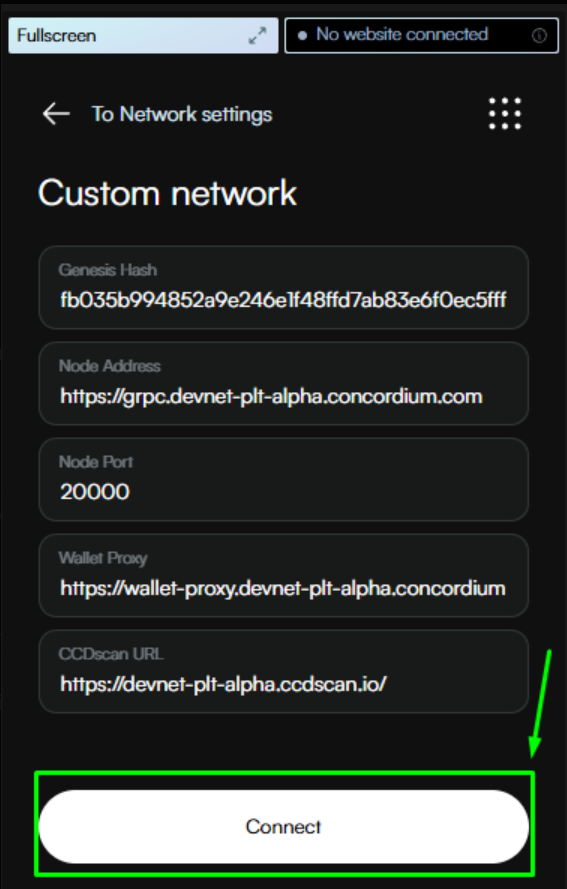
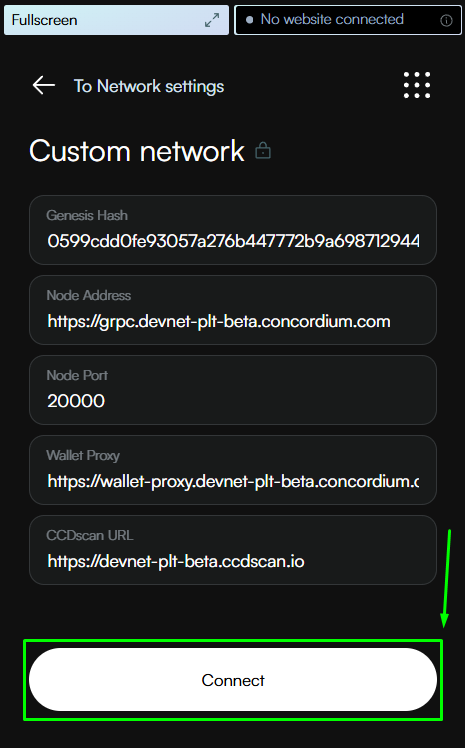
Updated: PLT issuance form, browser wallet link and custom network details, concordium-client links

diff --git a/source/mainnet/community/plt/examples/concordium-client.rst b/source/mainnet/community/plt/examples/concordium-client.rst
@@ -8,14 +8,14 @@ This guide explains how to use concordium-client to perform PLT operations from 
 Installation and setup
 ----------------------
 
-Download and install concordium-client v9.1.1-alpha:
+Download and install concordium-client v9.1.2-alpha:
 
-**Downloads (v9.1.1):**
+**Downloads (v9.1.2):**
 
-- `Linux <https://distribution.concordium.software/devnet/linux/concordium-client_9.1.1-0-alpha>`_
-- `Windows (signed) <https://distribution.concordium.software/devnet/windows/signed/concordium-client_9.1.1-0-alpha.zip>`_
-- `macOS - arm (signed) <https://distribution.concordium.software/devnet/macos/signed/concordium-client-arm-9.1.1-0-alpha.pkg>`_
-- `macOS - intel (signed) <https://distribution.concordium.software/devnet/macos/signed/concordium-client-intel-9.1.1-0-alpha.pkg>`_
+- `Linux <https://distribution.concordium.software/devnet/linux/concordium-client-9.1.2-0-alpha>`_
+- `Windows (signed) <https://distribution.concordium.software/devnet/windows/signed/concordium-client_9.1.2-0-alpha.zip>`_
+- `macOS - arm (signed) <https://distribution.concordium.software/devnet/macos/signed/concordium-client-arm-9.1.2-0-alpha.pkg>`_
+- `macOS - intel (signed) <https://distribution.concordium.software/devnet/macos/signed/concordium-client-intel-9.1.2-0-alpha.pkg>`_
 
 .. note::
    With new DevNet releases and features, new concordium-client versions may get released. Follow the communication channels for the most recent versions.
@@ -32,7 +32,7 @@ The following PLT operations are available via CLI:
 
 **Token Transfer Operations:**
 
-- ``transaction plt send`` - Transfer PLT tokens (renamed from ``transaction transfer-plt``)
+- ``transaction plt send`` - Transfer PLT tokens
 
 **Token Management Operations:**
 
@@ -58,7 +58,7 @@ Command examples
 
 .. code-block:: bash
 
-  concordium-client raw GetTokenList --grpc-ip grpc.devnet-plt-alpha.concordium.com --grpc-port 20000 --secure
+  concordium-client raw GetTokenList --grpc-ip grpc.devnet-plt-beta.concordium.com --grpc-port 20000 --secure
 
 
 .. _concordium-client-transfer-tokens:
@@ -67,44 +67,44 @@ Command examples
 
 .. code-block:: bash
 
-   concordium-client transaction plt send --sender YOUR_ACCOUNT --receiver RECEIVER_ADDRESS --amount 1 --tokenId TOKEN_SYMBOL --memo "test" --grpc-ip grpc.devnet-plt-alpha.concordium.com --grpc-port 20000 --secure
+   concordium-client transaction plt send --sender YOUR_ACCOUNT --receiver RECEIVER_ADDRESS --amount 1 --tokenId TOKEN_SYMBOL --memo "test" --grpc-ip grpc.devnet-plt-beta.concordium.com --grpc-port 20000 --secure
 
 
 **Mint PLT Tokens:**
 
 .. code-block:: bash
 
-   concordium-client transaction plt mint --sender GOVERNANCE_ACCOUNT --amount TOKEN-AMOUNT --tokenId TOKEN_SYMBOL --grpc-ip grpc.devnet-plt-alpha.concordium.com --grpc-port 20000 --secure
+   concordium-client transaction plt mint --sender GOVERNANCE_ACCOUNT --amount TOKEN-AMOUNT --tokenId TOKEN_SYMBOL --grpc-ip grpc.devnet-plt-beta.concordium.com --grpc-port 20000 --secure
 
 **Burn PLT Tokens:**
 
 .. code-block:: bash
 
-   concordium-client transaction plt burn --sender GOVERNANCE_ACCOUNT --amount TOKEN-AMOUNT --tokenId TOKEN_SYMBOL --grpc-ip grpc.devnet-plt-alpha.concordium.com --grpc-port 20000 --secure
+   concordium-client transaction plt burn --sender GOVERNANCE_ACCOUNT --amount TOKEN-AMOUNT --tokenId TOKEN_SYMBOL --grpc-ip grpc.devnet-plt-beta.concordium.com --grpc-port 20000 --secure
 
 **Add an Account to the Allow List:**
 
 .. code-block:: bash
 
-   concordium-client transaction plt add-to-allow-list --sender GOVERNANCE_ACCOUNT --account ACCOUNT_ADDRESS --tokenId TOKEN_SYMBOL --grpc-ip grpc.devnet-plt-alpha.concordium.com --grpc-port 20000 --secure
+   concordium-client transaction plt add-to-allow-list --sender GOVERNANCE_ACCOUNT --account ACCOUNT_ADDRESS --tokenId TOKEN_SYMBOL --grpc-ip grpc.devnet-plt-beta.concordium.com --grpc-port 20000 --secure
 
 **Add an Account to the Deny List:**
 
 .. code-block:: bash
 
-   concordium-client transaction plt add-to-deny-list --sender GOVERNANCE_ACCOUNT --account ACCOUNT_ADDRESS --tokenId TOKEN_SYMBOL --grpc-ip grpc.devnet-plt-alpha.concordium.com --grpc-port 20000 --secure
+   concordium-client transaction plt add-to-deny-list --sender GOVERNANCE_ACCOUNT --account ACCOUNT_ADDRESS --tokenId TOKEN_SYMBOL --grpc-ip grpc.devnet-plt-beta.concordium.com --grpc-port 20000 --secure
 
 **Remove an Account from the Allow List:**
 
 .. code-block:: bash
 
-   concordium-client transaction plt remove-from-allow-list --sender GOVERNANCE_ACCOUNT --account ACCOUNT_ADDRESS --tokenId TOKEN_SYMBOL --grpc-ip grpc.devnet-plt-alpha.concordium.com --grpc-port 20000 --secure
+   concordium-client transaction plt remove-from-allow-list --sender GOVERNANCE_ACCOUNT --account ACCOUNT_ADDRESS --tokenId TOKEN_SYMBOL --grpc-ip grpc.devnet-plt-beta.concordium.com --grpc-port 20000 --secure
 
 **Remove an Account from the Deny List:**
 
 .. code-block:: bash
 
-   concordium-client transaction plt remove-from-deny-list --sender GOVERNANCE_ACCOUNT --account ACCOUNT_ADDRESS --tokenId TOKEN_SYMBOL --grpc-ip grpc.devnet-plt-alpha.concordium.com --grpc-port 20000 --secure
+   concordium-client transaction plt remove-from-deny-list --sender GOVERNANCE_ACCOUNT --account ACCOUNT_ADDRESS --tokenId TOKEN_SYMBOL --grpc-ip grpc.devnet-plt-beta.concordium.com --grpc-port 20000 --secure
 
 
 

diff --git a/source/mainnet/community/plt/setup-guide/request-plt.rst b/source/mainnet/community/plt/setup-guide/request-plt.rst
@@ -60,24 +60,26 @@ Follow these steps to request PLT issuance on DevNet:
 
    Create and host your metadata JSON file following the format above.
 
-2. **Access the PLT issuance request form**
+2. **Fill out the form below**
 
-   Go to the `PLT issuance request form <https://tally.so/r/w8WKGl>`_ to submit your request.
+.. raw:: html
 
-3. **Fill out the required information**
+    <iframe data-tally-src="https://tally.so/r/mK4ZdK" loading="lazy" width="100%" height="500" frameborder="0" marginheight="0" marginwidth="0" title="PLT issuance request form"></iframe>
+    <script>
+      var d = document, w = "https://tally.so/widgets/embed.js", v = function () {
+        "undefined" != typeof Tally && Tally.loadEmbeds();
+      };
+      if ("undefined" != typeof Tally) v();
+      else if (d.querySelector('script[src="' + w + '"]') == null) {
+        var s = d.createElement("script");
+        s.src = w;
+        s.onload = v;
+        s.type = "text/javascript";
+        d.body.appendChild(s);
+      }
+    </script>
 
-   * **Nominated Account**: The DevNet wallet address to receive your token. **Important:** This account will have exclusive authority to perform all token-governance operations (mint, burn, add/remove allow and deny lists)
-   * **Token Name**: Full name of your token (e.g., "My First PLT")
-   * **Token Symbol**: Short ticker (e.g., "PLT")
-   * **Initial supply**: Amount of tokens that will be issued and transferred to your account
-   * **Number of decimals**: Number of decimals in the token representation
-   * **Allowlist**: Only accounts on the allow list can hold the token
-   * **Denylist**: Accounts on the deny list cannot hold the token
-   * **Mintable**: Allows minting more tokens after issuance
-   * **Burnable**: Allows burning tokens after issuance
-   * **Your Discord username**: For communication about your request
-
-4. **Submit your request**
+3. **Submit your request**
 
    Click Submit to send your PLT issuance request with all the token parameters to the Concordium team.
 
@@ -111,8 +113,6 @@ Your PLT will be created with the following parameters:
      - Whether token supports a deny list
    * - Initial supply
      - Initial tokens minted to the token-governance account
-   * - Total Supply
-     - Maximum possible token supply
    * - Burnable
      - Whether tokens can be burnt
    * - Mintable

diff --git a/source/mainnet/community/plt/setup-guide/devnet-connection.rst b/source/mainnet/community/plt/setup-guide/devnet-connection.rst
@@ -31,11 +31,11 @@ Follow these steps to configure your wallet to connect to DevNet:
 
 3. Select *Custom Network* (this option will only be available if you already have a Testnet account) and fill in the following connection details:
 
[1 lines of base64/hex data omitted]
-   - Node Address: ``https://grpc.devnet-plt-alpha.concordium.com``
[1 lines of base64/hex data omitted]
+   - Node Address: ``https://grpc.devnet-plt-beta.concordium.com``
    - Node Port: ``20000``
-   - Wallet Proxy: ``https://wallet-proxy.devnet-plt-alpha.concordium.com``
-   - CCDScan URL: ``https://devnet-plt-alpha.ccdscan.io``
+   - Wallet Proxy: ``https://wallet-proxy.devnet-plt-beta.concordium.com``
+   - CCDScan URL: ``https://devnet-plt-beta.ccdscan.io``
 
    .. image:: ../setup-guide/Images/custom-network-connection-details.png
       :alt: Opening the wallet menu

diff --git a/source/mainnet/community/plt/setup-guide/browser-wallet.rst b/source/mainnet/community/plt/setup-guide/browser-wallet.rst
@@ -18,7 +18,7 @@ Follow these steps to install the custom DevNet Browser Wallet:
 
 1. **Download the DevNet Browser Wallet**
 
-   Download `Browser Wallet v2.2.7 <https://distribution.concordium.software/devnet/concordium-browser-wallet-2.2.7.zip>`_, the custom version that allows connection to DevNet.
+   Download `Browser Wallet v2.2.11 <https://distribution.concordium.software/devnet/concordium-browser-wallet-2.2.11.zip>`_, the custom version that allows connection to DevNet.
 
    .. note::
       This feature will be incorporated into the standard Browser Wallet in future versions, but currently requires this special edition.

diff --git a/source/mainnet/community/plt/operations/index.rst b/source/mainnet/community/plt/operations/index.rst
@@ -19,7 +19,7 @@ You can interact with PLTs using multiple development approaches:
 
   `Rust SDK released versions <https://crates.io/crates/concordium-rust-sdk>`_
 
-- **Concordium Client CLI Tool** (v9.1.1-alpha) - Command-line interface for direct operations
+- **Concordium Client CLI Tool** (v9.1.2-alpha) - Command-line interface for direct operations
 
   `CLI released versions <https://github.com/Concordium/concordium-client/releases>`_
 

diff --git a/source/mainnet/community/plt/setup-guide/identity-creation.rst b/source/mainnet/community/plt/setup-guide/identity-creation.rst
@@ -30,7 +30,7 @@ After :ref:`connecting to DevNet <plt-devnet-connection>`, follow these steps to
 
    - You'll be redirected to a Testnet-style ID page
    - Use the following credentials:
-     - Username: ``devnet-plt-alpha``
+     - Username: ``devnet-plt-beta``
      - Password: ``peachy2025``
 
    .. image:: Images/identity-verification.png
